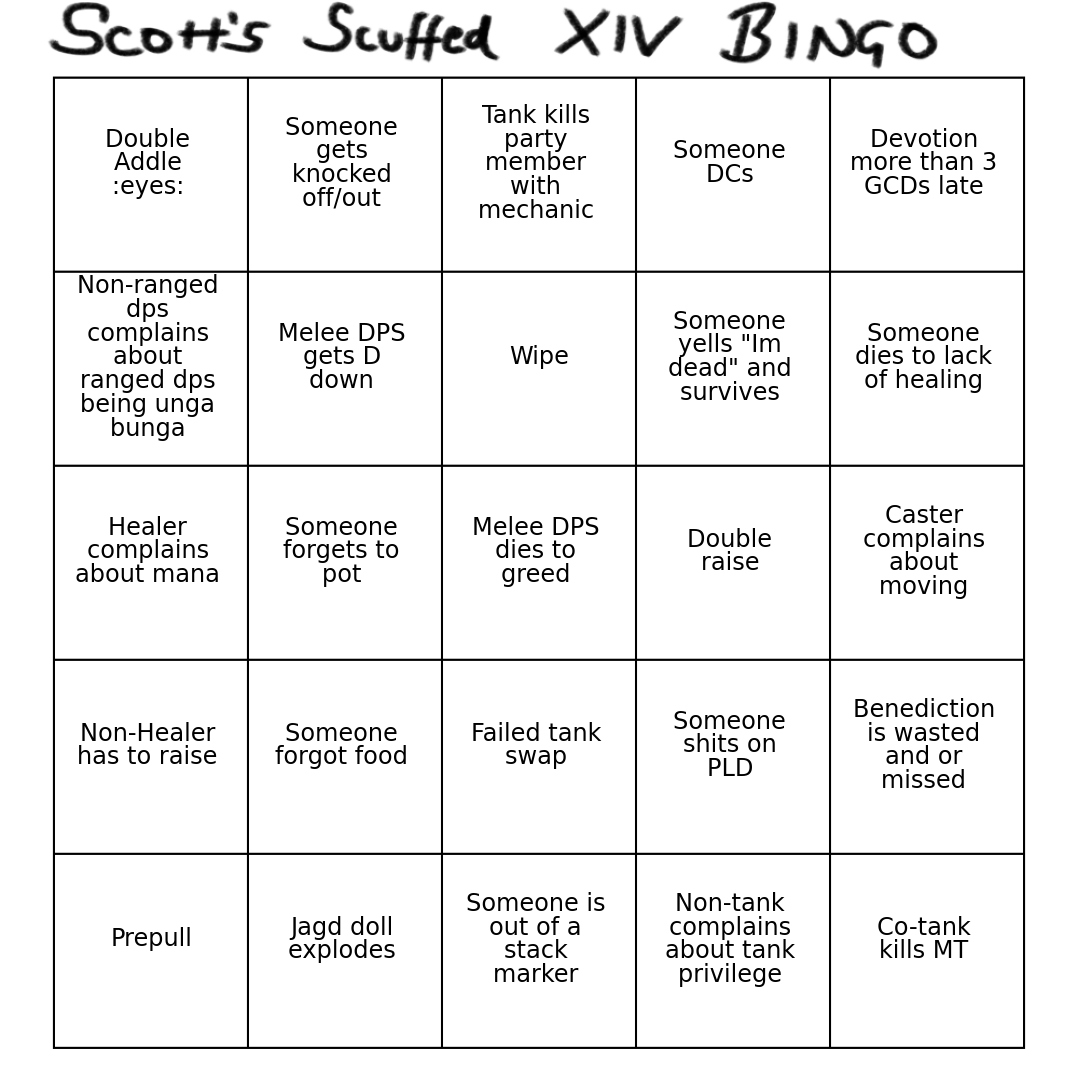
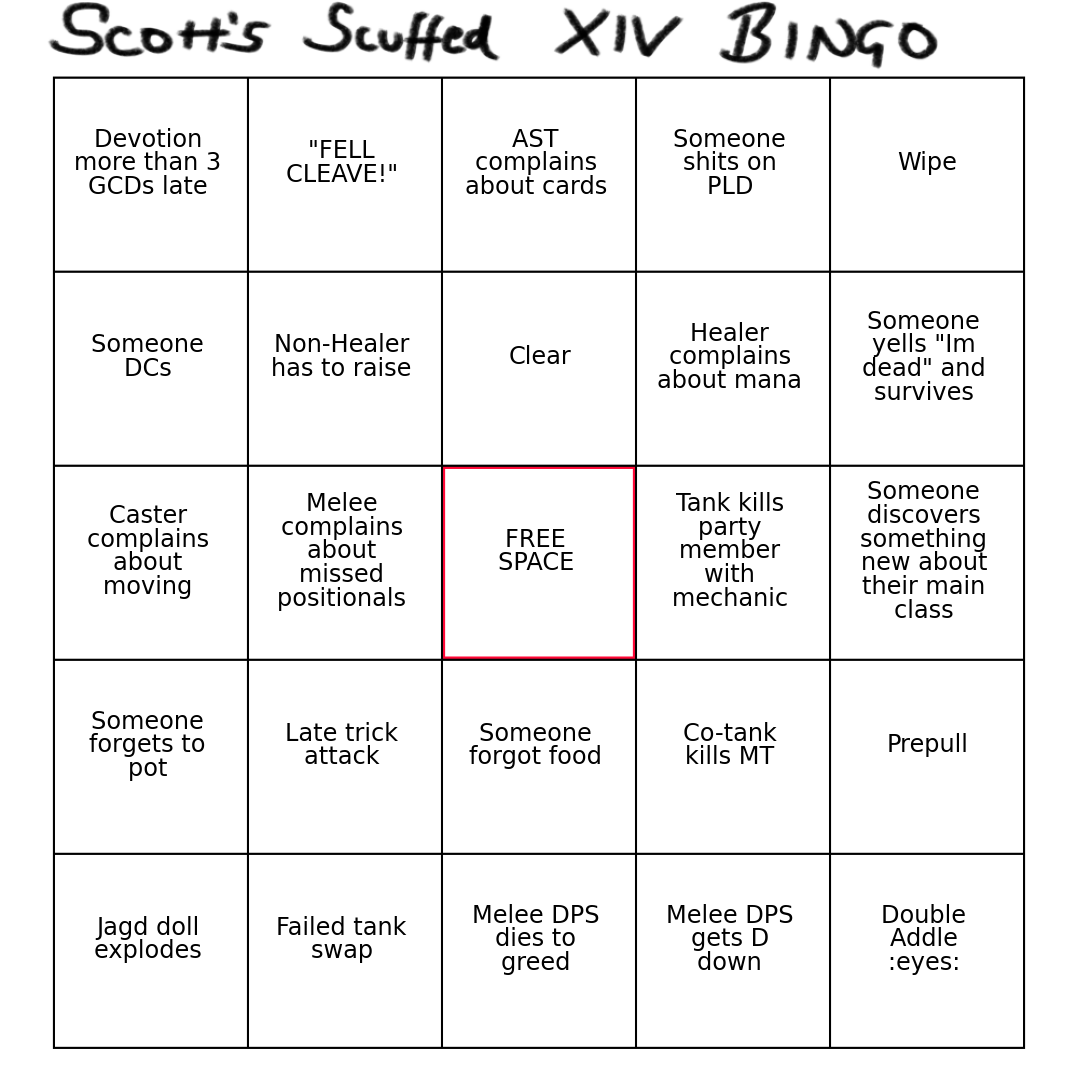
Added free space logic on chosen square
Free space is taken randomly from a separate list
removed use of cv2, image now loaded with Pillow as it was used anyway

diff --git a/main.py b/main.py
@@ -1,8 +1,18 @@
 import numpy as np
-import cv2
 import matplotlib.pyplot as plt
 from PIL import Image, ImageFont, ImageDraw
 from text_wrap import text_wrap
+import itertools
+
+
+def draw_text(x_coord, y_coord, text):
+    plt.text(x_coord, y_coord, text,
+             horizontalalignment='center',
+             verticalalignment='center',
+             clip_on=True,
+             wrap=True,
+             size='xx-large')
+
 
 num_images = 8
 
@@ -13,47 +23,58 @@ font = ImageFont.truetype(font=font_path, size=30)
 line_height = 22
 
 # load in the blank bingo card image
-blank = cv2.imread("blank.png")
+blank = np.array(Image.open("blank.png"))
 
 # values of cell spacing on the card
 cell_width = 180
 x_cells = 5
 y_cells = 5
+
 # calculate the coords of the centre points of each cell
 x_coords = np.linspace(50 + (cell_width//2), (50 + (cell_width//2)) + (cell_width*(x_cells-1)), x_cells)
 y_coords = np.linspace(72 + (cell_width//2), (72 + (cell_width//2)) + (cell_width*(y_cells-1)), y_cells)
 
+# make a single list of tuples containing all coords
+all_coords = list(itertools.product(x_coords, y_coords))
+
+# decide where you want the free space
+free_space = (2, 2)
+# pop the free space coord out of the list
+free_space_coord = all_coords.pop((free_space[0] * x_cells) + free_space[1])
+
+statements = np.loadtxt("list.txt", dtype=str, comments="#", delimiter="\n", unpack=False)
+free_statements = np.loadtxt("free_list.txt", dtype=str, comments="#", delimiter="\n", unpack=False)
+
 # loop to generate n random bingo cards
 for image_num in range(num_images):
 
-    # this line should be out of the loop, but for some reason random.choice doesnt work if the lines list isnt
-    # reinitialised
-    lines = np.loadtxt("list.txt", dtype=str, comments="#", delimiter="\n", unpack=False)
     # generate the random values for this card
-    random = np.random.choice(lines, (x_cells * y_cells), replace=False)
+    random_choices = np.random.choice(statements, (x_cells * y_cells), replace=False)
+    random_free_space = np.random.choice(free_statements, 1, replace=False)
 
     # create the plt figure to be drawn on and saved later
     fig = plt.figure(figsize=(14, 14))
     ax = plt.axes(frameon=False, xticks=[], yticks=[])
 
-    # loop through the x and y cells with i and j
-    n = 0
-    for i in range(x_cells):
-        for j in range(y_cells):
-            # calculate text wrapping (split into lines with text_wrap() func)
-            lines = text_wrap(random[n], font, cell_width * 0.9)
-            # loop through the splits and place the lines with plt.text()
-            for k in range(len(lines)):
-                plt.text(x_coords[i], (-len(lines) * line_height/2) + y_coords[j] + k * line_height, lines[k],
-                         horizontalalignment='center',
-                         verticalalignment='center',
-                         clip_on=True,
-                         wrap=True,
-                         size='xx-large')
+    for i in range(len(all_coords)):
 
-            n += 1
+        # calculate text wrapping (split into lines with text_wrap() func)
+        wrapped_statements = text_wrap(random_choices[i], font, cell_width * 0.9)
+        # loop through the splits and place the lines with plt.text()
+        for k in range(len(wrapped_statements)):
+            draw_text(all_coords[i][0],
+                      (-len(wrapped_statements) * line_height / 2) + all_coords[i][1] + k * line_height,
+                      wrapped_statements[k])
+
+    # write the free space
+    wrapped_free_statements = text_wrap(random_free_space[0], font, cell_width * 0.9)
+    for k in range(len(wrapped_free_statements)):
+        draw_text(free_space_coord[0],
+                  (-len(wrapped_free_statements) * line_height / 2) + free_space_coord[1] + k * line_height,
+                  wrapped_free_statements[k])
 
     ax.imshow(blank)
     # finally save the output images
     plt.savefig('output_' + str(image_num) + '_.png', bbox_inches='tight', pad_inches=0)
+
 
